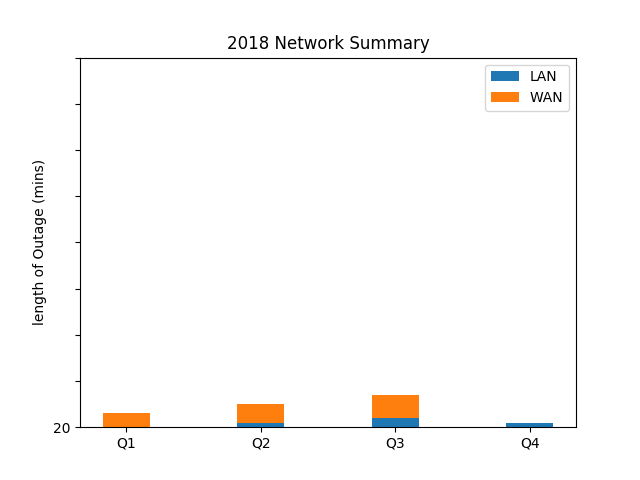
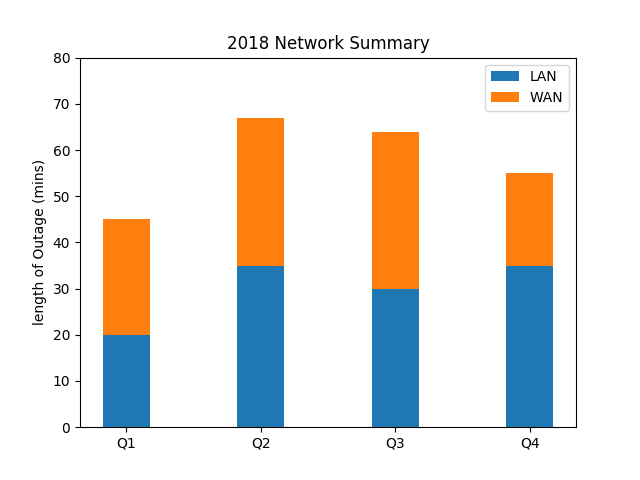
Created cat facts files

diff --git a/excelout/scratch.py b/excelout/scratch.py
@@ -1,0 +1,36 @@
+#!/usr/bin/env python3
+##  sudo apt install python3-pip
+
+##  python3 -m pip install pyexcel
+##  python3 -m pip install pyexcel-xls
+import pyexcel
+
+#  Request data from user
+
+___________________________________________________________________________________________________
+def get_ip_data():
+    input_ip = input("\nWhat is the IP address? ")
+    input_driver = input("What is the driver associated with this device? ")
+    d = {"IP": input_ip, "driver": input_driver}
+    return d
+
+##  This code is left turned off, but might help visualize how pyexcel works with data sets.
+##  IP is the first column, whereas driver is the second column.
+##  mylistdict = [ {"IP": "172.16.2.10", "dirver": "arista_eos"}, {"IP": "172.16.2.20", "driver": "arista_eos"}
+##  pyexcel.save_as(records=mylistdict, dest_file_name="ip_list.xls")
+
+#  Runtime
+mylistdict = []  #  this will be our list we turn into a *.xls file
+
+print("Hello! This program will make you a *.xls file")
+
+while True:
+    mylistdict.append(get_ip_data())  #  add an item to the list returned by get_ip_data() {"IP": value, "driver": value}
+    keep_going = input("\nWOuld you like to add another value? Enter to continue, or enter 'q' to quit")
+    if (keep_going.lower() == 'q'):
+        break
+
+today = dt.datetime.now().strftime("%Y-%m-%d")
+filename = input("\nWhat is the name of the *.xls file? ")
+pyexcel.save_as(records=mylistdict, dest_file_name=filename.today)
+print("The file " + filename + "#.xls should be in your local directory")

diff --git a/excelout/pyexcel.py b/excelout/pyexcel.py
@@ -1,0 +1,36 @@
+#!/usr/bin/env python3
+##  sudo apt install python3-pip
+
+##  python3 -m pip install pyexcel
+##  python3 -m pip install pyexcel-xls
+import pyexcel
+from datetime import datetime
+
+#  Request data from user
+
+def get_ip_data():
+    input_ip = input("\nWhat is the IP address? ")
+    input_driver = input("What is the driver associated with this device? ")
+    d = {"IP": input_ip, "driver": input_driver}
+    return d
+
+##  This code is left turned off, but might help visualize how pyexcel works with data sets.
+##  IP is the first column, whereas driver is the second column.
+##  mylistdict = [ {"IP": "172.16.2.10", "dirver": "arista_eos"}, {"IP": "172.16.2.20", "driver": "arista_eos"}
+##  pyexcel.save_as(records=mylistdict, dest_file_name="ip_list.xls")
+
+#  Runtime
+mylistdict = []  #  this will be our list we turn into a *.xls file
+
+print("Hello! This program will make you a *.xls file")
+
+while True:
+    mylistdict.append(get_ip_data())  #  add an item to the list returned by get_ip_data() {"IP": value, "driver": value}
+    keep_going = input("\nWould you like to add another value? Enter to continue, or enter 'q' to quit")
+    if (keep_going.lower() == 'q'):
+        break
+
+today = datetime.now().strftime("%Y-%m-%d")
+filename = input("\nWhat is the name of the *.xls file? ")
+pyexcel.save_as(records=mylistdict, dest_file_name=filename.today)
+print("The file " + filename + "#.xls should be in your local directory")

diff --git a/catfacts/facts02.py b/catfacts/facts02.py
@@ -1,0 +1,23 @@
+#!/usr/bin/env python3
+"""Alta3 Research | Author: RZFeeser@alta3.com"""
+
+# imports always go at the top of your code
+import requests
+
+def main():
+    """Run time code"""
+    # create r, which is our request object
+    r = requests.get("https://cat-fact.herokuapp.com/facts")
+
+    # the .json() method will dump a JSON string into Pythonic data structures. COOL!
+    # This is much easier than using the urllib.request library
+    print(r.json())
+
+    # Create 3 new lines via the escape character \n
+    print("\n\n\n")
+
+    # if we request the 'all' key, we can strip off the ouside {}
+    # This seems minor, but is CRITICAL if we want to parse our data
+    print(r.json().get("all"))
+
+main()

diff --git a/catfacts/facts03.py b/catfacts/facts03.py
@@ -1,0 +1,18 @@
+#!/usr/bin/env python3
+"""Alta3 Research | Author: RZFeeser@alta3.com"""
+
+# imports always go at the top of your code
+import requests
+
+def main():
+    """Run time code"""
+    ## create r, which is our request object
+    r = requests.get('https://cat-fact.herokuapp.com/facts')
+
+    ## catfact is our iterable -- that just means it will take on the values found within
+    ## r.json()["all"], one after the next-- which happens to be a dictionary
+    ## the code within the loop, says, "from that single dictionary
+## print the value assocaited with text"
+    for catfact in r.json()["all"]:
+        print(catfact.get("text"))  # the .get() method returns NONE if key not found
+main()

diff --git a/catfacts/facts01.py b/catfacts/facts01.py
@@ -1,0 +1,15 @@
+#!/usr/bin/env python3
+"""Alta3 Research | Author: RZFeeser@alta3.com"""
+
+# imports always go at the top of your code
+import requests
+
+def main():
+    """Run time code"""
+    # create r, which is our request object
+    r = requests.get("https://cat-fact.herokuapp.com/facts")
+
+    # the .json() method will dump a JSON string into Pythonic data structures. COOL!
+    # This is much easier than using the urllib.request library
+    print(r.json())
+main()

diff --git a/catfacts/facts00alpha.py b/catfacts/facts00alpha.py
@@ -1,0 +1,14 @@
+#!/usr/bin/env python3
+"""Alta3 Research | Author: RZFeeser@alta3.com"""
+
+# imports always go at the top of your code
+import requests
+
+def main():
+    """Run time code"""
+    # create r, which is our request object
+    r = requests.get("https://cat-fact.herokuapp.com/facts")
+
+    # display the methods available to our new object
+    print( dir(r) )
+main()

diff --git a/graphing/graphmaker-csvreader.py b/graphing/graphmaker-csvreader.py
@@ -18,7 +18,7 @@ def parsecsvdata():
         # parse csv data with csv.reader
         downdata = csv.reader(downtime, delimiter=",")
         for row in downdata:
-            rowdat = (row[0], row[1], row[2], row[3])
+            rowdat = (int(row[0]), int(row[1]), int(row[2]), int(row[3]))
             summary.append(rowdat)  # add dict to list
     return summary
 
